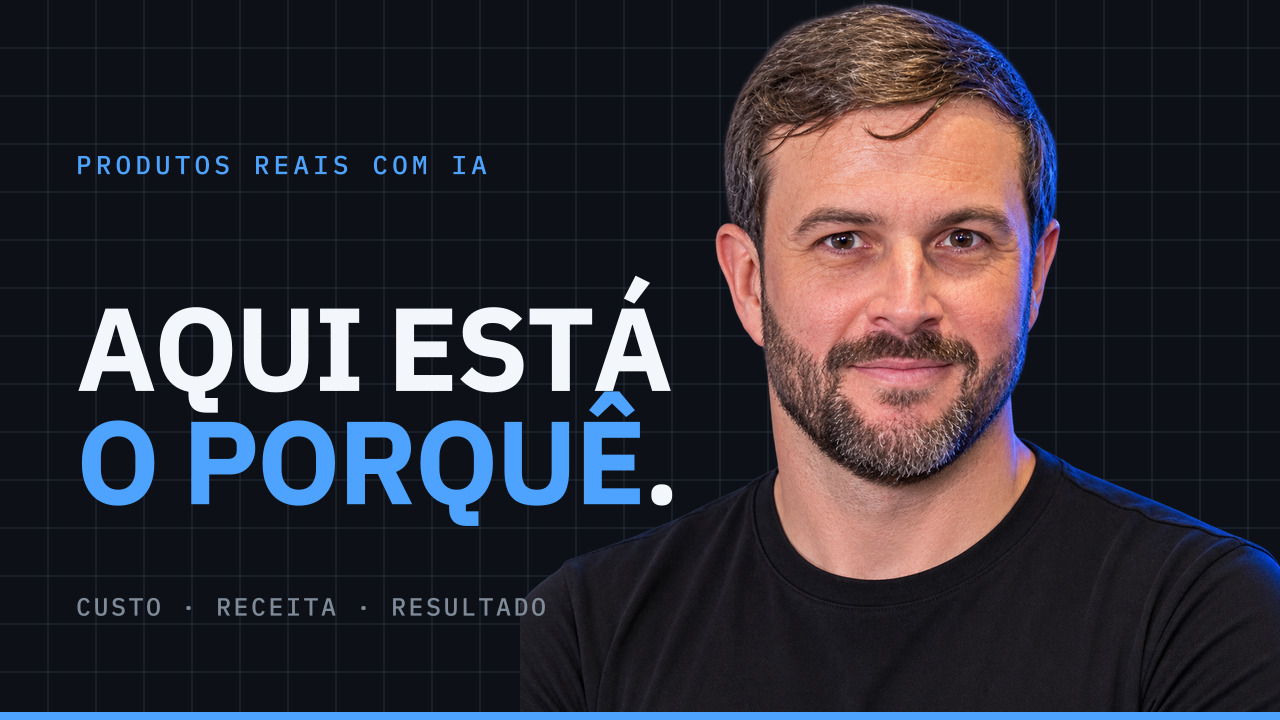
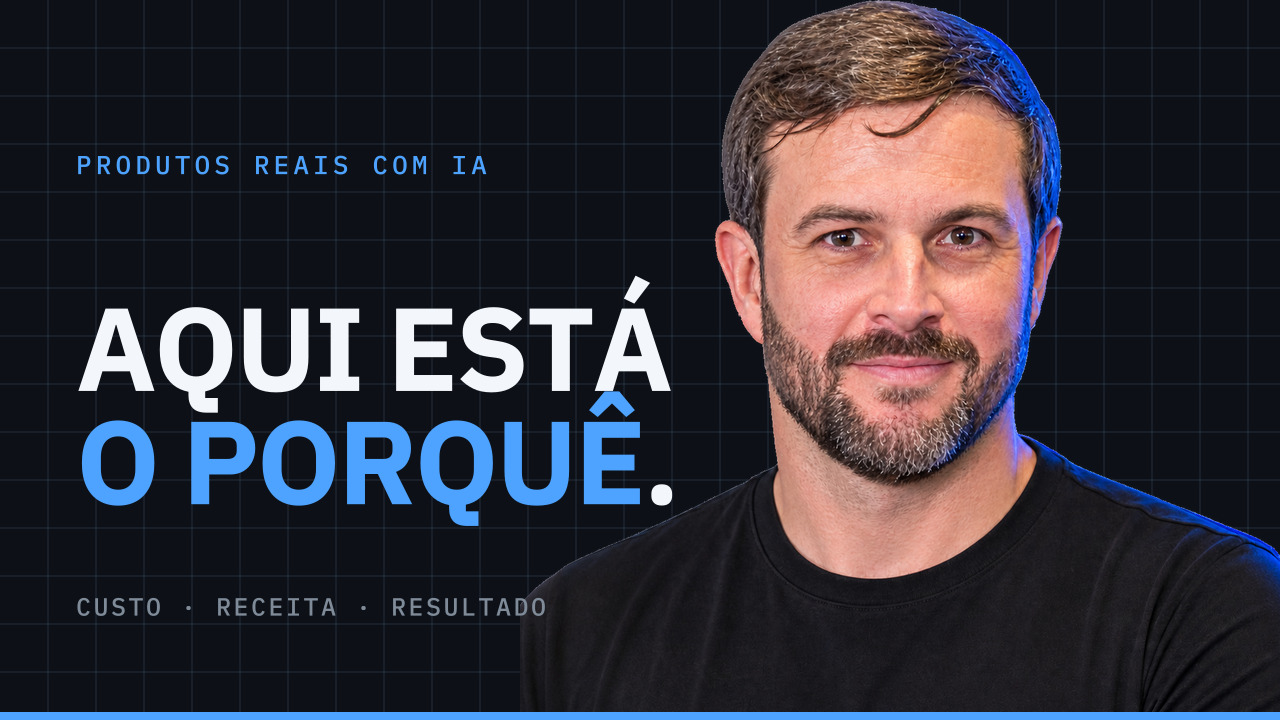
fix: refine founder thumbnail silhouette

Changed region(s): [[0.5625, 0.0, 1.0, 0.7944], [0.7188, 0.7639, 0.75, 0.7944], [0.6562, 0.7944, 0.6875, 0.825]]

diff --git a/brand-assets/exports/day-1/05-youtube/versions/v2-approved-founder-cutouts/README.md b/brand-assets/exports/day-1/05-youtube/versions/v2-approved-founder-cutouts/README.md
@@ -8,9 +8,9 @@ Este pack não substitui os exports publicados em `day-1/05-youtube/` nem sobres
 
 | Aplicação | Fonte | Saída |
 | --- | --- | --- |
-| Primeiro vídeo | `leo-ferraz-cutout-front.png` | `first-video/front/` |
+| Primeiro vídeo | `thumbnail-derived/leo-ferraz-cutout-front-shoulder-extended.png` | `first-video/front/` |
 | Primeiro vídeo | `leo-ferraz-cutout-smile-three-quarter.png` | `first-video/smile-three-quarter/` |
-| Primeiro vídeo | `leo-ferraz-cutout-present-left.png` | `first-video/present-left/` |
+| Primeiro vídeo | `thumbnail-derived/leo-ferraz-cutout-present-left-no-hand.png` | `first-video/present-left/` |
 | Live Dia 1 | `leo-ferraz-cutout-arms-crossed.png` | `live-day-1/arms-crossed/` |
 | Live Dia 1 | `leo-ferraz-cutout-neutral.png` | `live-day-1/neutral/` |
 | Live Dia 1 | `leo-ferraz-cutout-smile-three-quarter.png` | `live-day-1/smile-three-quarter/` |
@@ -19,7 +19,7 @@ Este pack não substitui os exports publicados em `day-1/05-youtube/` nem sobres
 
 - `#0D1117` e grid estrutural de 48px, sem redução de opacidade;
 - headline à esquerda, retrato ampliado à direita;
-- retratos frontais usam faixa de 760px; `present-left` usa faixa de 700px deslocada à direita para preservar o gesto completo sem cobrir a headline;
+- retratos frontais e `present-left` usam faixa dominante de 760px; a variante `present-left` remove o gesto manual para manter somente o corpo do fundador;
 - headline, copy, safe zone e barra inferior do Reference Pattern;
 - IBM Plex Sans para headline e IBM Plex Mono para kicker/subline;
 - foto completa, sem fade, sombra, escurecimento ou recorte de gesto;

diff --git a/brand-assets/thumbnails/versions/v2-approved-founder-cutouts/README.md b/brand-assets/thumbnails/versions/v2-approved-founder-cutouts/README.md
@@ -8,9 +8,9 @@ Este pack não substitui os exports publicados em `day-1/05-youtube/` nem sobres
 
 | Aplicação | Fonte | Saída |
 | --- | --- | --- |
-| Primeiro vídeo | `leo-ferraz-cutout-front.png` | `first-video/front/` |
+| Primeiro vídeo | `thumbnail-derived/leo-ferraz-cutout-front-shoulder-extended.png` | `first-video/front/` |
 | Primeiro vídeo | `leo-ferraz-cutout-smile-three-quarter.png` | `first-video/smile-three-quarter/` |
-| Primeiro vídeo | `leo-ferraz-cutout-present-left.png` | `first-video/present-left/` |
+| Primeiro vídeo | `thumbnail-derived/leo-ferraz-cutout-present-left-no-hand.png` | `first-video/present-left/` |
 | Live Dia 1 | `leo-ferraz-cutout-arms-crossed.png` | `live-day-1/arms-crossed/` |
 | Live Dia 1 | `leo-ferraz-cutout-neutral.png` | `live-day-1/neutral/` |
 | Live Dia 1 | `leo-ferraz-cutout-smile-three-quarter.png` | `live-day-1/smile-three-quarter/` |
@@ -19,7 +19,7 @@ Este pack não substitui os exports publicados em `day-1/05-youtube/` nem sobres
 
 - `#0D1117` e grid estrutural de 48px, sem redução de opacidade;
 - headline à esquerda, retrato ampliado à direita;
-- retratos frontais usam faixa de 760px; `present-left` usa faixa de 700px deslocada à direita para preservar o gesto completo sem cobrir a headline;
+- retratos frontais e `present-left` usam faixa dominante de 760px; a variante `present-left` remove o gesto manual para manter somente o corpo do fundador;
 - headline, copy, safe zone e barra inferior do Reference Pattern;
 - IBM Plex Sans para headline e IBM Plex Mono para kicker/subline;
 - foto completa, sem fade, sombra, escurecimento ou recorte de gesto;
